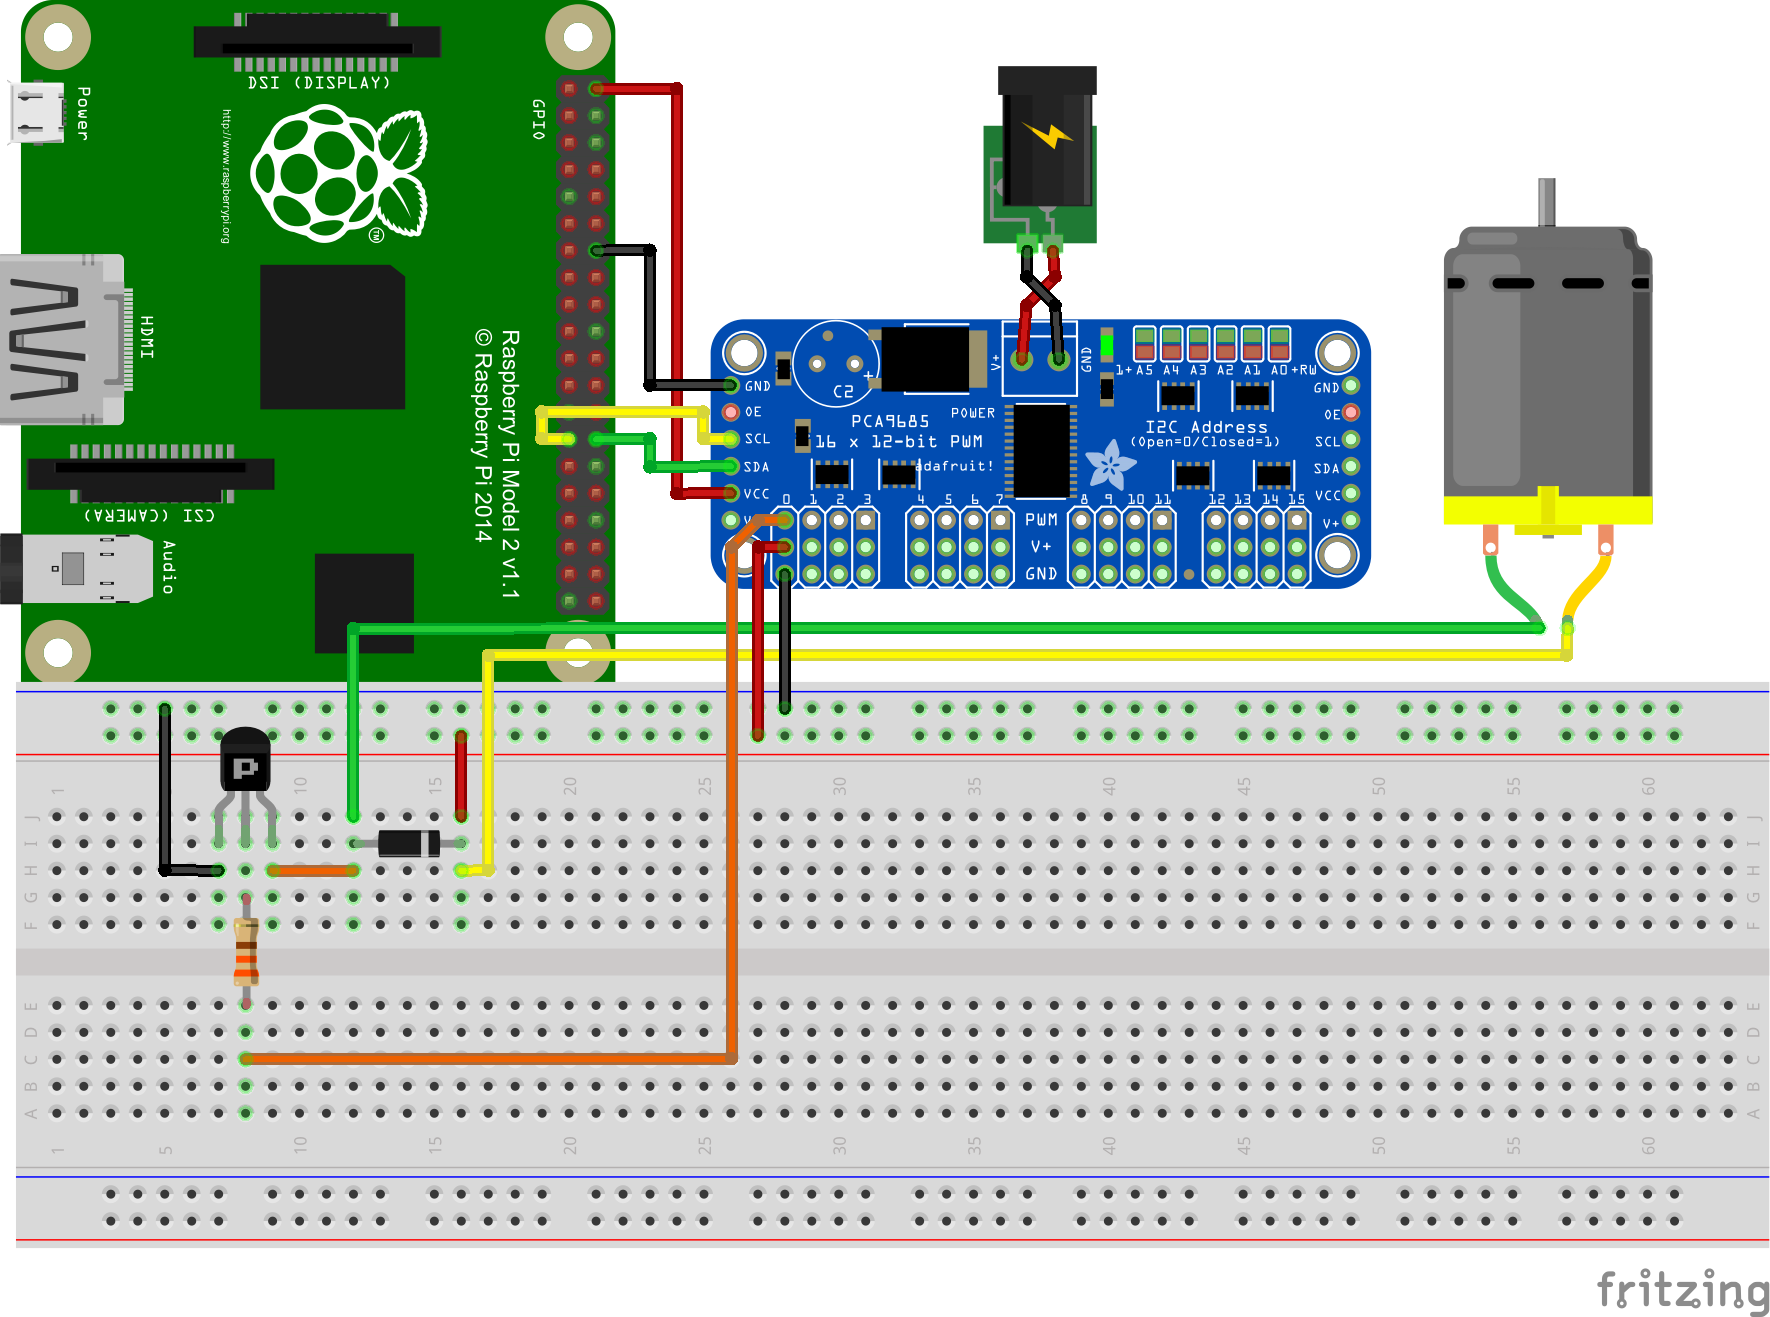
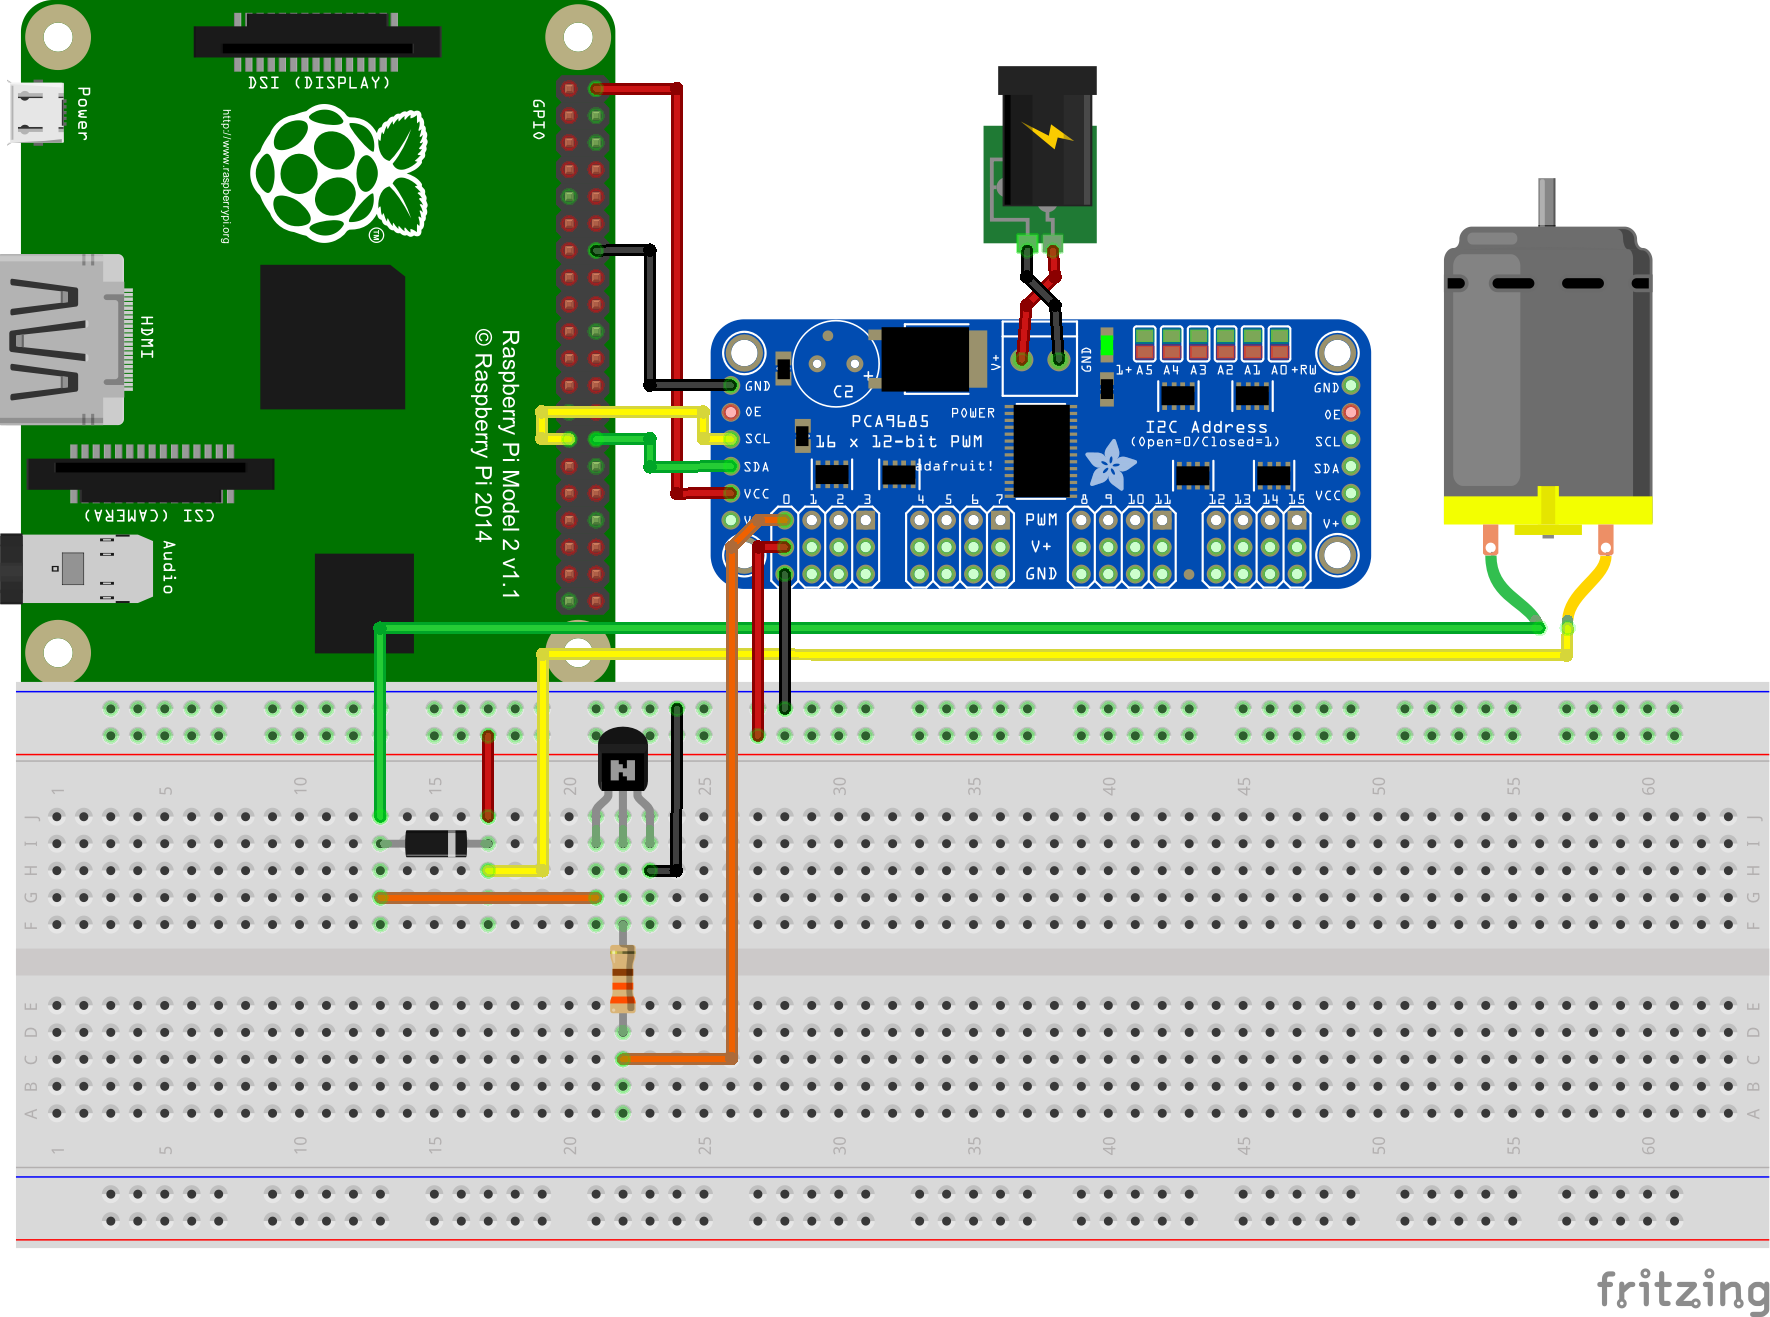
Updated DC Motor sample and corrected fritzing diagram

Changed region(s): [[0.0621, 0.467, 0.404, 0.8094]]

diff --git a/en-US/win10/samples/arduino-wiring/DCMotor.md b/en-US/win10/samples/arduino-wiring/DCMotor.md
@@ -14,10 +14,10 @@ DC motors are some of the basic elements of a maker's toolbox. Whether you're dr
 You will need:
 
 * 1 Windows 10 IoT Core enabled device, such as Raspberry Pi 2 or Minnowboard Max.
-* 1 PWM controller breakout board or hat. We're using the [PCA9685 16-channel 12-bit PWM controller from Adafruit](http://www.adafruit.com/product/815).
+* 1 [PCA9685 16-channel 12-bit PWM controller from Adafruit](http://www.adafruit.com/product/815).
 * 1 330 Ω resistor.
 * 1 1N1407 diode.
-* 1 PNP transistor
+* 1 NPN 222A transistor
 * Assorted wires
 
 ##Hardware Set Up
@@ -26,7 +26,9 @@ The pins on the Raspberry Pi 2 do not provide enough power on their own to run m
 
 We are also using a diode to protect the PCA9685 board and the Raspberry Pi from backflow current that can damage the hardware. Diodes enable power flow in one direction only.
 
-If you are using a different PWM controller, you'll want to refer to the documentation for that specific part before you proceed. There is no guarantee that the pins are laid out the same. We have a Pi Hat version of the same controller that sits directly on top of the entire pin header on the Raspberry Pi and therefore has no I2C pinouts!
+We highly recommend you use the PCA9685 PWM controller. You can use either the hat or the breakout board, but this board is directly supported by Microsoft and will offer the best experience. Additionally, the controller should not have any I2C hardware address pins set. 
+
+
 
 Refer to the fritzing diagram below to hook up your motor and PWM controller.
 
